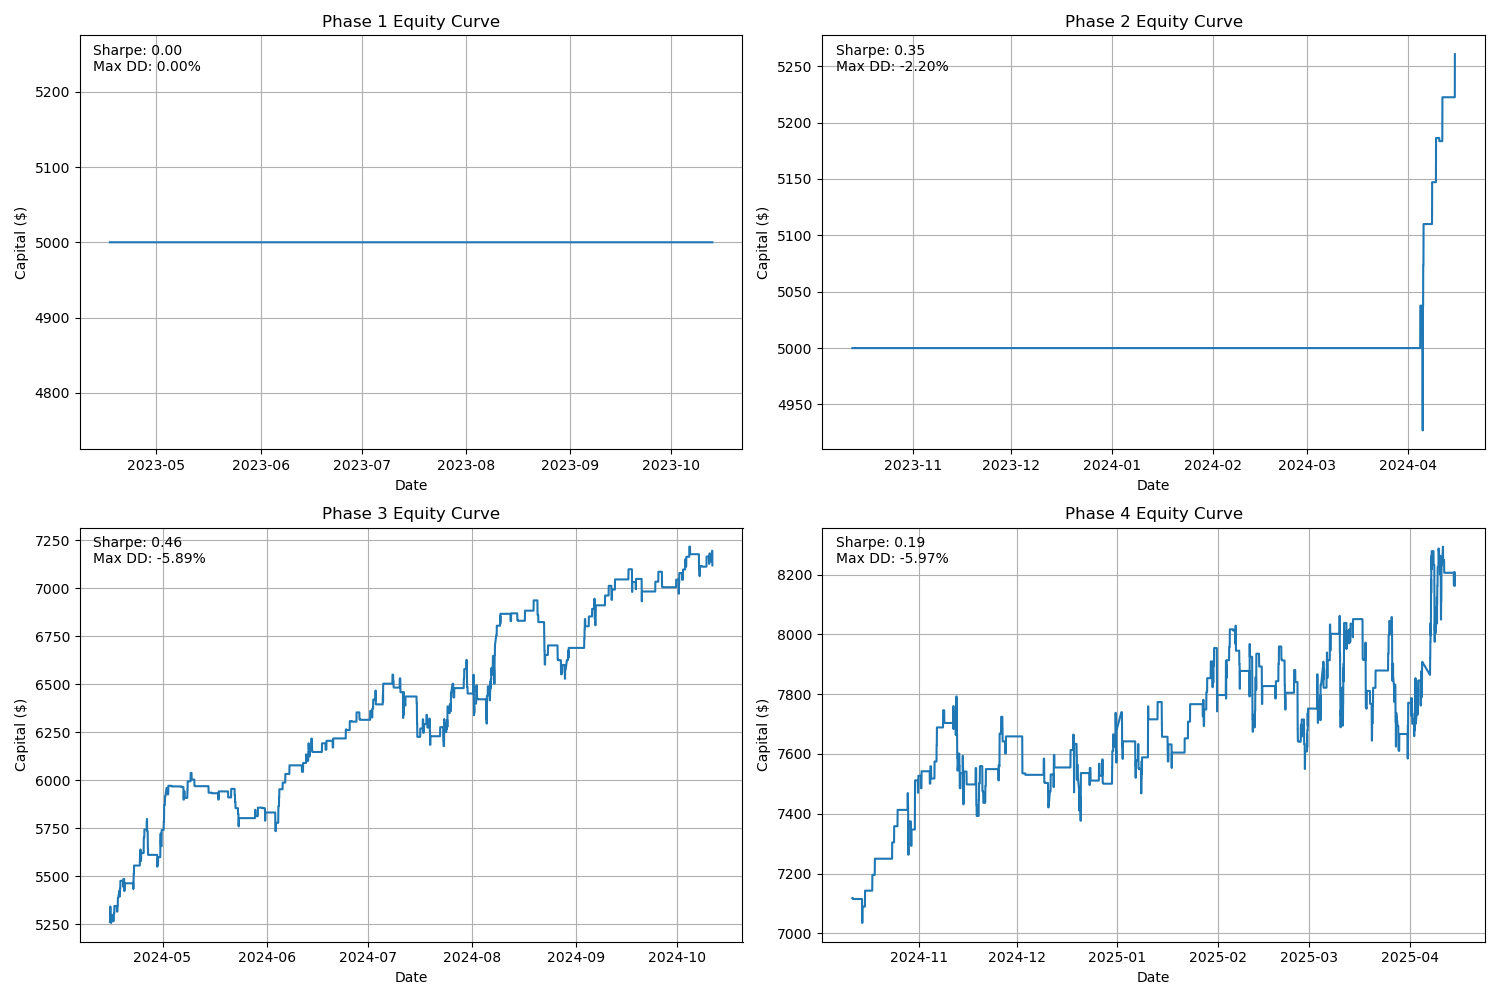
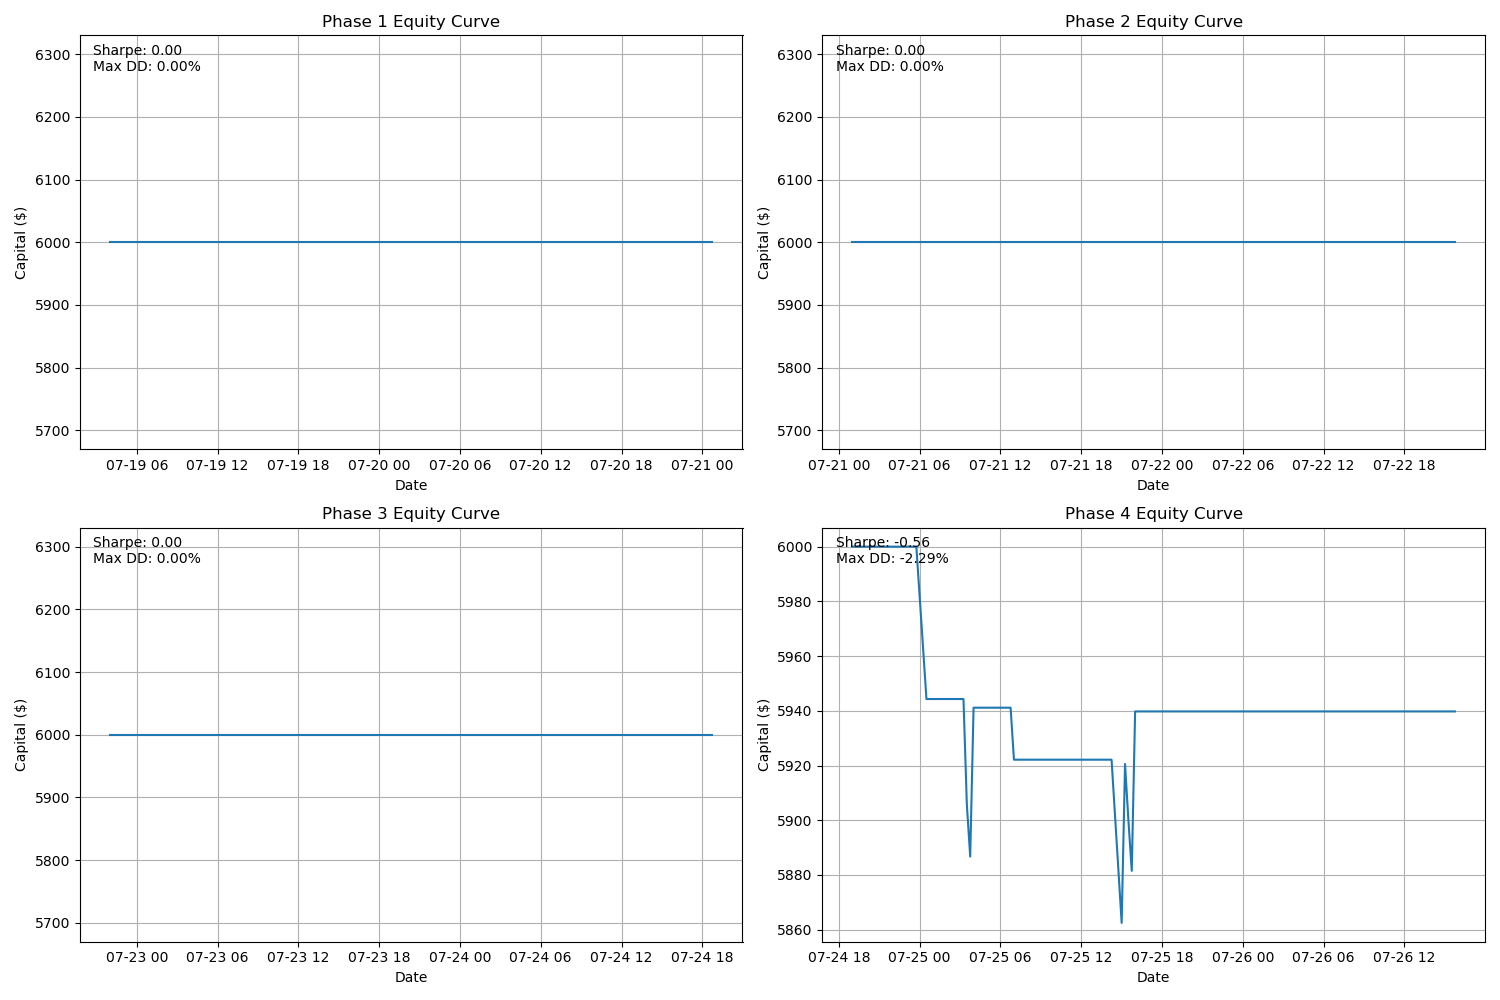
Checkpoint 1.1

diff --git a/coinbase.py b/coinbase.py
@@ -1,0 +1,116 @@
+# Retrieve 5m OHLC data on BTC/USD.
+# Endpoint does not require authentication,
+# but has utility functions for authentication.
+
+import http.client
+import urllib.request
+import urllib.parse
+import hashlib
+import hmac
+import base64
+import json
+import time
+import pyperclip
+import pandas as pd
+import numpy as np
+from datetime import datetime
+import sys
+import os
+
+# Add the Quant directory to the path to import from GatherData.py
+sys.path.append(os.path.join(os.path.dirname(__file__), 'Quant'))
+from Quant.GatherData import calculate_technical_indicators
+
+def main():
+   # Read data from CSV file instead of calling Kraken API
+   csv_path = r"C:\coding\Quant\DB\XRPUSD_15.csv"
+   
+   try:
+      # Read the CSV file without headers and add them manually
+      column_names = ['timestamp', 'Open', 'High', 'Low', 'Close', 'Volume', 'Count']
+      df = pd.read_csv(csv_path, header=None, names=column_names)
+      
+      # Convert timestamp column to datetime index
+      df['timestamp'] = pd.to_datetime(df['timestamp'], unit='s')
+      df.set_index('timestamp', inplace=True)
+      
+      # Ensure columns are in the correct order and format
+      df = df[['Open', 'High', 'Low', 'Close', 'Volume']]
+      
+      # Convert all columns to float to ensure proper data types
+      for col in df.columns:
+         df[col] = df[col].astype(float)
+      
+      # Sort by timestamp to ensure chronological order
+      df = df.sort_index()
+      
+      print(f"Loaded {len(df)} data points from {csv_path}")
+      print(f"Date range: {df.index.min()} to {df.index.max()}")
+      
+      # Calculate technical indicators
+      df_with_indicators = calculate_technical_indicators(df)
+      
+      # Save the results
+      df_with_indicators.to_csv("XRP_USD_15min_indicators.csv")
+      print(f"Saved {len(df_with_indicators)} data points to XRP_USD_15min_indicators.csv")
+      
+      # Print sample of the data
+      print("\nFirst few rows of the data:")
+      print(df_with_indicators.head())
+      
+      # Print date range
+      print(f"\nDate range: {df_with_indicators.index.min()} to {df_with_indicators.index.max()}")
+      
+   except FileNotFoundError:
+      print(f"Error: File not found at {csv_path}")
+   except Exception as e:
+      print(f"Error reading CSV file: {str(e)}")
+
+
+def convert_kraken_data_to_dataframe(kraken_data):
+    """
+    Convert Kraken OHLC data to DataFrame format expected by calculate_technical_indicators
+    
+    Args:
+        kraken_data: List of arrays from Kraken API
+                    Each array: [time, open, high, low, close, vwap, volume, count]
+    
+    Returns:
+        DataFrame with columns: Open, High, Low, Close, Volume
+    """
+    # Convert the data to a list of dictionaries
+    data_list = []
+    
+    for tick in kraken_data:
+        # Kraken data format: [time, open, high, low, close, vwap, volume, count]
+        timestamp, open_price, high_price, low_price, close_price, vwap, volume, count = tick
+        
+        # Convert timestamp to datetime
+        dt = datetime.fromtimestamp(timestamp)
+        
+        data_list.append({
+            'Open': float(open_price),
+            'High': float(high_price),
+            'Low': float(low_price),
+            'Close': float(close_price),
+            'Volume': float(volume)
+        })
+    
+    # Create DataFrame
+    df = pd.DataFrame(data_list)
+    
+    # Create datetime index from timestamps
+    timestamps = [tick[0] for tick in kraken_data]
+    df.index = pd.to_datetime(timestamps, unit='s')
+    
+    # Sort by timestamp to ensure chronological order
+    df = df.sort_index()
+    
+    print(f"Converted {len(df)} data points from Kraken API")
+    print(f"Date range: {df.index.min()} to {df.index.max()}")
+    
+    return df
+
+
+if __name__ == "__main__":
+   main()

diff --git a/TradingStrategy.py b/TradingStrategy.py
@@ -14,7 +14,7 @@ from Optimization.FAPT_Wasserstein import predict_optimal_parameters, get_top_ma
 import scipy.stats
 
 
-symbol = "TSLA"
+symbol = "XRP_USD"
 
 # Default parameters (used when skip_optimization=True)
 DEFAULT_MIN_RISK = 0.006489884911079899
@@ -26,13 +26,13 @@ DEFAULT_MIN_HOLDING_PERIOD = 8
 DEFAULT_MAX_HOLDING_PERIOD = 9
 DEFAULT_PARTIAL_TAKE_PROFIT = 0.8675868861032823
 DEFAULT_MAX_CONCURRENT_TRADES = 3
-DEFAULT_WINDOW_SIZE = 359
+DEFAULT_WINDOW_SIZE = 200
 DEFAULT_RETREIN_INTERVAL = 15
 
 # Fixed parameters
-INITIAL_CAPITAL = 6000
-SLIPPAGE = 0.0005
-TRANSACTION_FEE = 1.0
+INITIAL_CAPITAL = 100
+SLIPPAGE = 0.001
+TRANSACTION_FEE = 0.0
 
 
 # Flag to skip optimization
@@ -542,10 +542,10 @@ if __name__ == "__main__":
     data_path = f"DB/{symbol}_15min_indicators.csv"
     df, feature_cols, target_cols = preprocess_data(pd.read_csv(data_path))
     
-    # Filter data by time range
-    start_date = '2023-04-15'  # Format: 'YYYY-MM-DD'
-    end_date = '2025-04-15'    # Format: 'YYYY-MM-DD'
-    df = df[(df['Date'] >= start_date) & (df['Date'] <= end_date)]
+    #Filter data by time range
+    start_date = '2025-01-15'  # Format: 'YYYY-MM-DD'
+    # end_date = '2025-04-15'    # Format: 'YYYY-MM-DD'
+    df = df[(df['Date'] >= start_date)]# & (df['Date'] <= end_date)]
     
     # Run optimization or use default parameters
     if SKIP_OPTIMIZATION:
